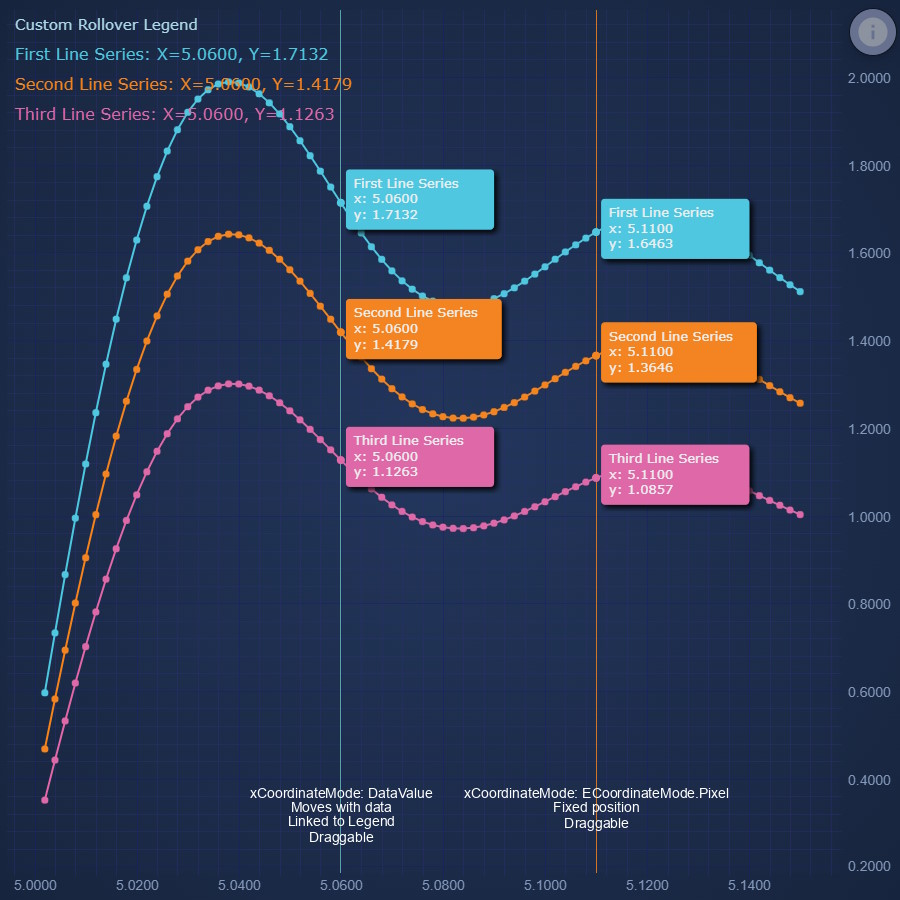
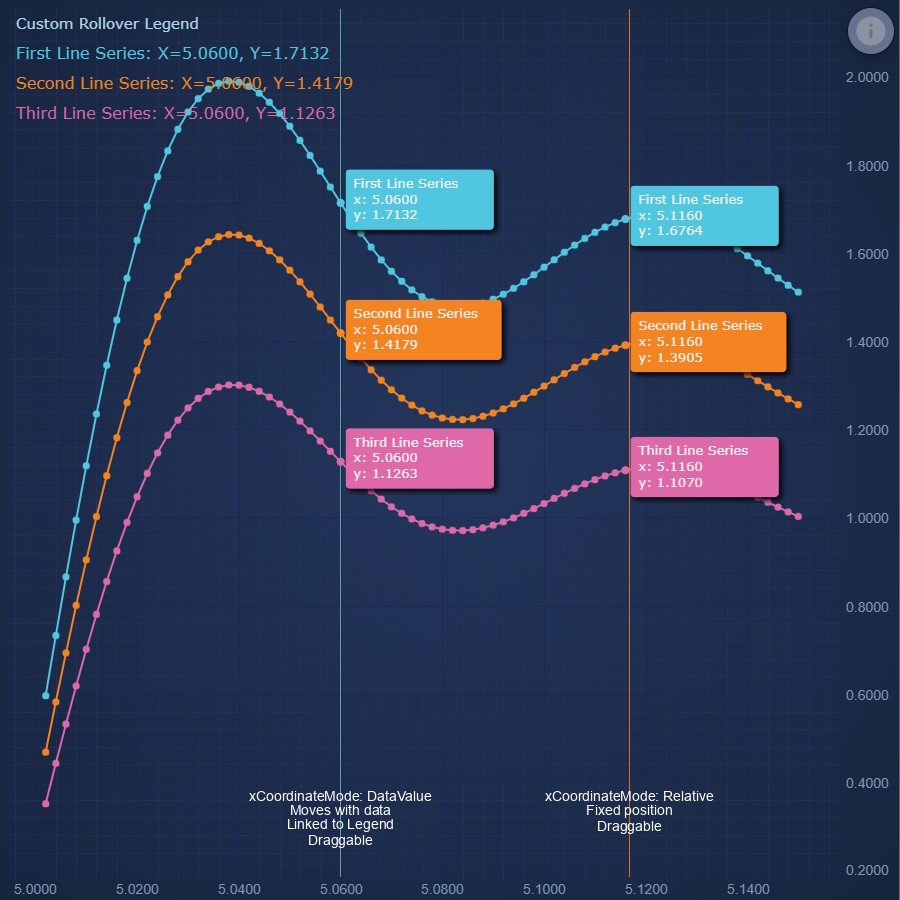
fix(Examples): Use Relative rather than pixel for VerticalSlice demo

diff --git a/Examples/src/components/Examples/Charts2D/TooltipsAndHittest/UsingVerticalSliceModifier/index.tsx b/Examples/src/components/Examples/Charts2D/TooltipsAndHittest/UsingVerticalSliceModifier/index.tsx
@@ -121,8 +121,8 @@ const drawExample = async (): Promise<TWebAssemblyChart> => {
         tooltipDataTemplate: getTooltipDataTemplate
     });
     const vSlice2 = new VerticalSliceModifier({
-        x1: 600,
-        xCoordinateMode: ECoordinateMode.Pixel,
+        x1: 0.75,
+        xCoordinateMode: ECoordinateMode.Relative,
         isDraggable: true,
         // Defines if rollover vertical line is shown
         showRolloverLine: true,
@@ -156,7 +156,7 @@ const drawExample = async (): Promise<TWebAssemblyChart> => {
     sciChartSurface.annotations.add(textAnn1);
 
     const textAnn2 = new NativeTextAnnotation({
-        text: "xCoordinateMode: ECoordinateMode.Pixel\nFixed position\nDraggable ",
+        text: "xCoordinateMode: Relative\nFixed position\nDraggable ",
         textColor: appTheme.ForegroundColor,
         y1: 0.9,
         xCoordinateMode: ECoordinateMode.Pixel,
